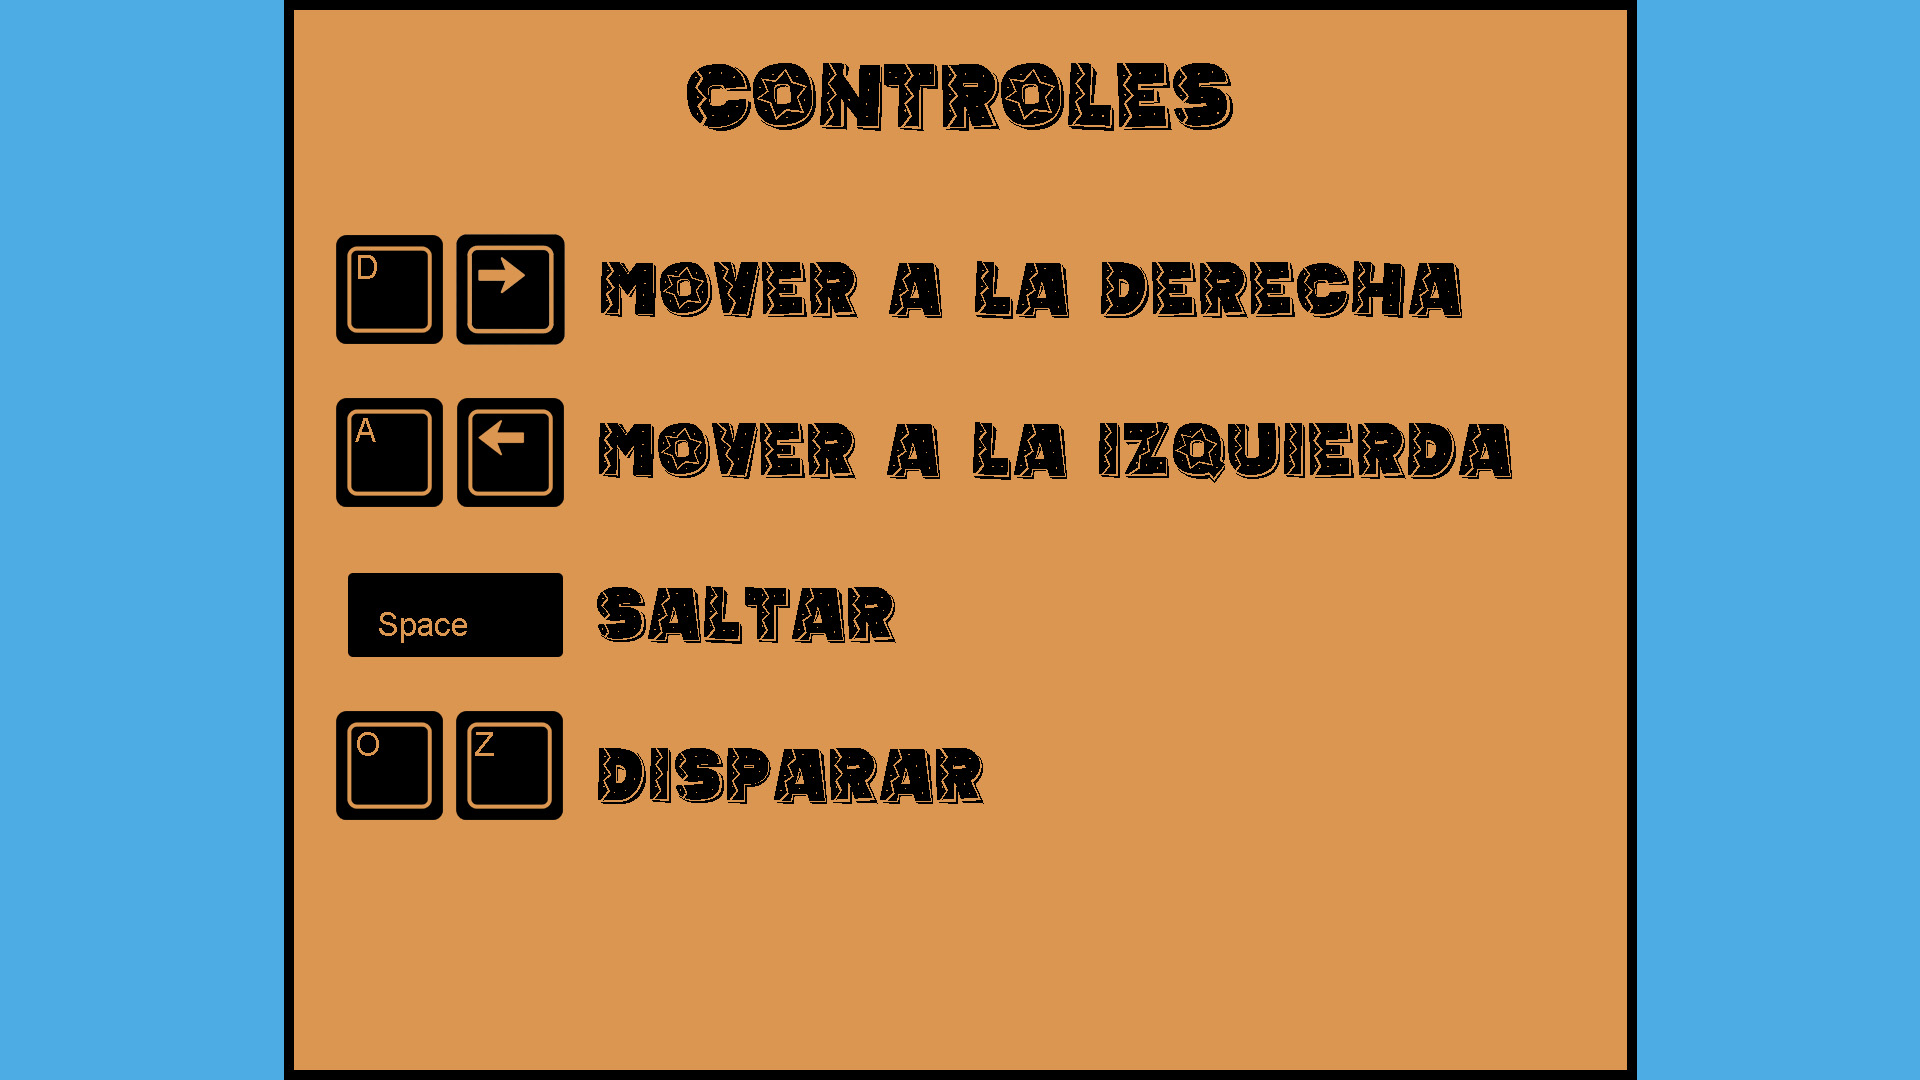
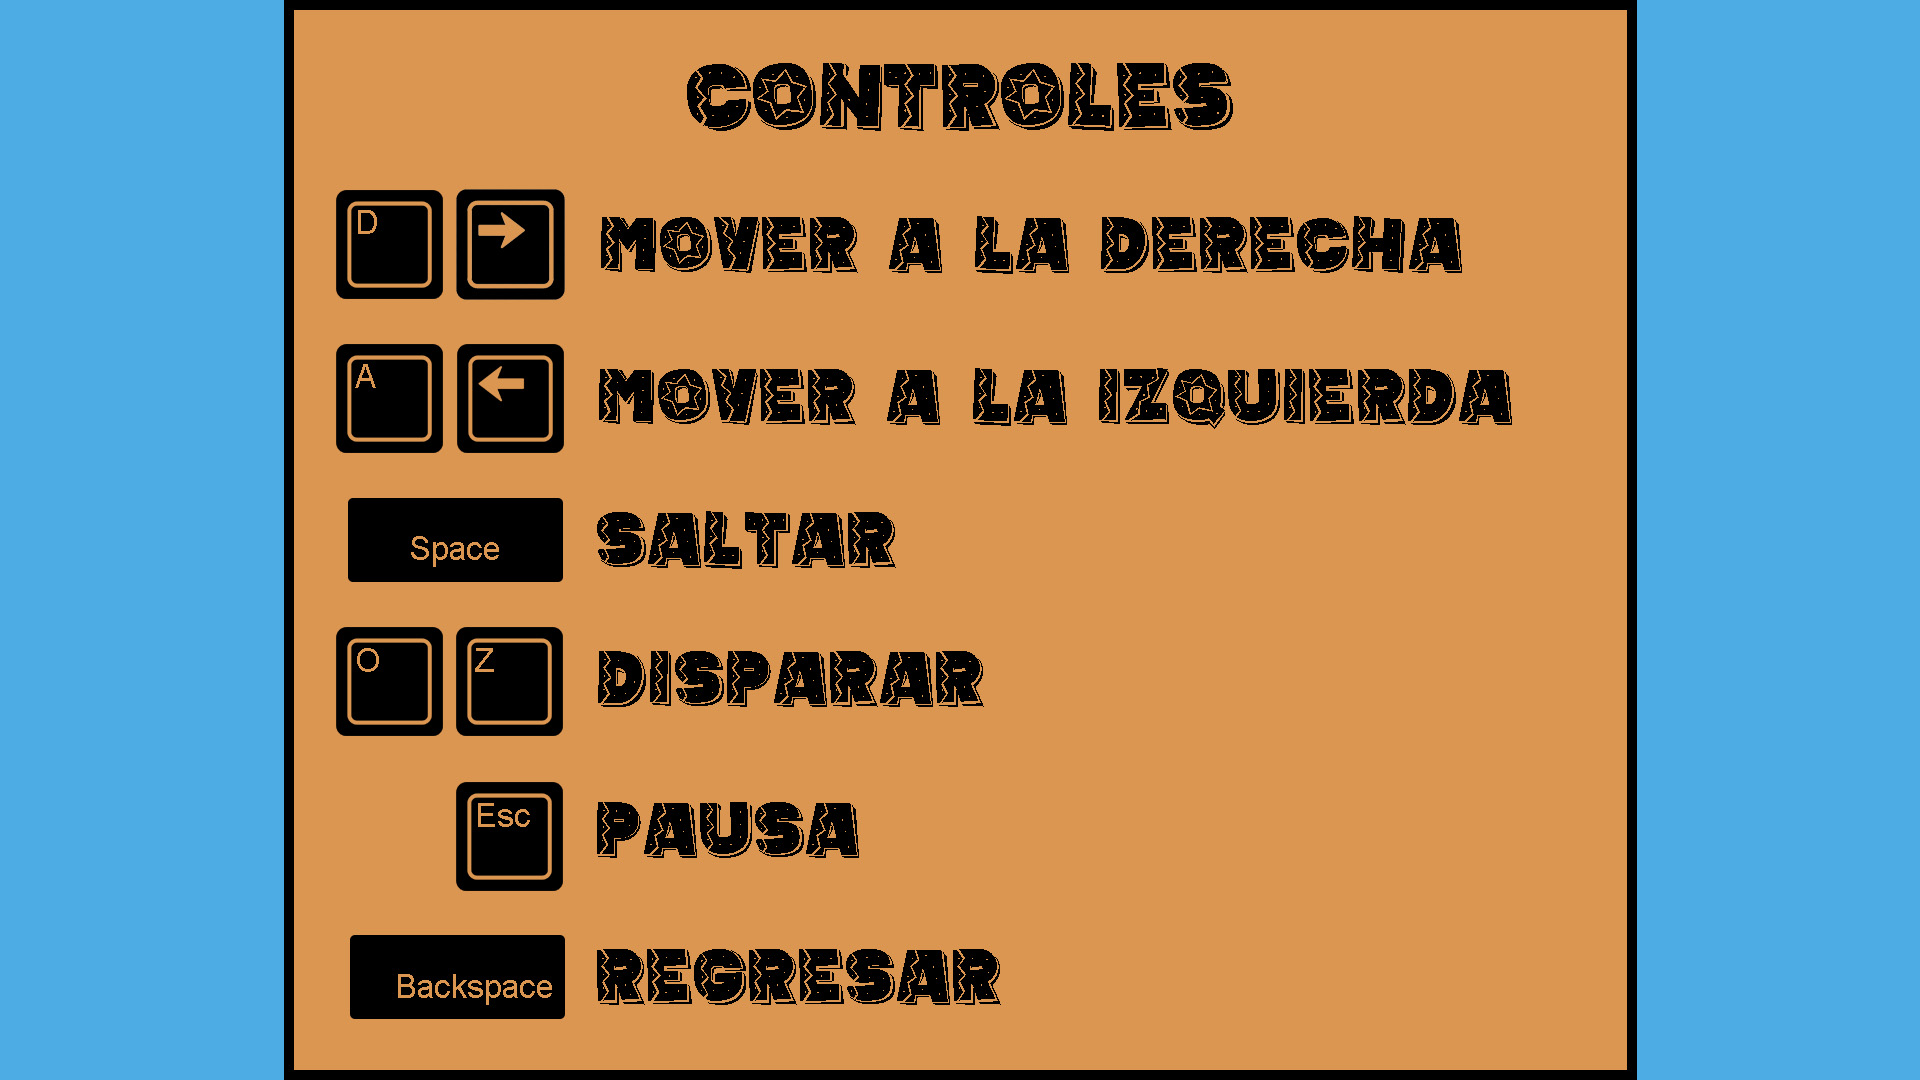
Added more controls and player animation

Changed region(s): [[0.1562, 0.1528, 0.8125, 0.825], [0.1562, 0.8556, 0.5312, 0.9472]]

diff --git a/XochiAdventure/src/xochiadventure/Player.java b/XochiAdventure/src/xochiadventure/Player.java
@@ -24,6 +24,8 @@ public class Player extends Item{
     private boolean drawPlayer;
     private int leftLimit;
     private int rightLimit;
+    private Animation xochiAnim;
+    private boolean moving;
 
     /**
      * to create direction, width, height, speed in the x axis, and game
@@ -45,6 +47,8 @@ public class Player extends Item{
         this.drawPlayer = true;
         this.leftLimit = left;
         this.rightLimit = right;
+        xochiAnim = new Animation(Assets.xochiAnim, 150);
+        moving = false;
     }
 
     // GETS ------------------------------------------------------------------
@@ -182,6 +186,10 @@ public class Player extends Item{
           setX(getX() + 8);
           direction = 1;
        }
+       if ((game.getKeyManager().lastRight || game.getKeyManager().d) || (game.getKeyManager().lastLeft || game.getKeyManager().a))
+            moving = true;
+       else
+           moving = false;
 
        if (game.getKeyManager().lastUp) {
           y -= 8;
@@ -205,6 +213,10 @@ public class Player extends Item{
          if (speedY > -20) {
            speedY -= 2;
          }
+       }
+       
+       if (moving) {
+           xochiAnim.tick();
        }
 
        // hacer que xochi ataque
@@ -241,7 +253,10 @@ public class Player extends Item{
         // } else {
         //   g.drawImage(Assets.player, game.getPlayerX(), game.getPlayerY(), getWidth(), getHeight(), null);
         // }
-        g.drawImage(Assets.player, x - game.getRec().x, (getY() - game.getRec().y), getWidth(), getHeight(), null);
+        if (moving)
+            g.drawImage(xochiAnim.getCurrentFrame(), x - game.getRec().x, (getY() - game.getRec().y), getWidth(), getHeight(), null);
+        else
+            g.drawImage(Assets.xochiAnim[0], x - game.getRec().x, (getY() - game.getRec().y), getWidth(), getHeight(), null);
       }
 
 

diff --git a/XochiAdventure/src/xochiadventure/Assets.java b/XochiAdventure/src/xochiadventure/Assets.java
@@ -37,6 +37,8 @@ public class Assets {
     public static BufferedImage comida;
     public static BufferedImage rectangle;
     public static BufferedImage fuente;
+    public static BufferedImage xochi;              // to store the xochi image
+    public static BufferedImage xochiAnim[];        // to store the frames for xochi animation
 
     // Power-Ups
     public static BufferedImage atole;              // to store the atole image
@@ -90,8 +92,17 @@ public class Assets {
         atoleAnim = new BufferedImage[3];                              // the sprites of the atole animation
 
         dulce = ImageLoader.loadImage("/images/dulce.png");
+        
+        xochi = ImageLoader.loadImage("/images/Xochi.png");
+        SpreadSheet xochiSpriteSheet = new SpreadSheet(xochi);         // spritesheet of the atole
+        xochiAnim = new BufferedImage[2];   
+        
+        // cropping the pictures from the xochi sheet into the array
+        for (int i = 0; i < 2; i++) {
+            xochiAnim[i] = xochiSpriteSheet.crop(i * 250, 0, 250, 250);
+        }
 
-        // cropping the pictures from the player bar sheet into the array
+        // cropping the pictures from the atole sheet into the array
         for (int i = 0; i < 3; i++) {
             atoleAnim[i] = atoleSpriteSheet.crop(i * 200, 0, 200, 200);
         }
